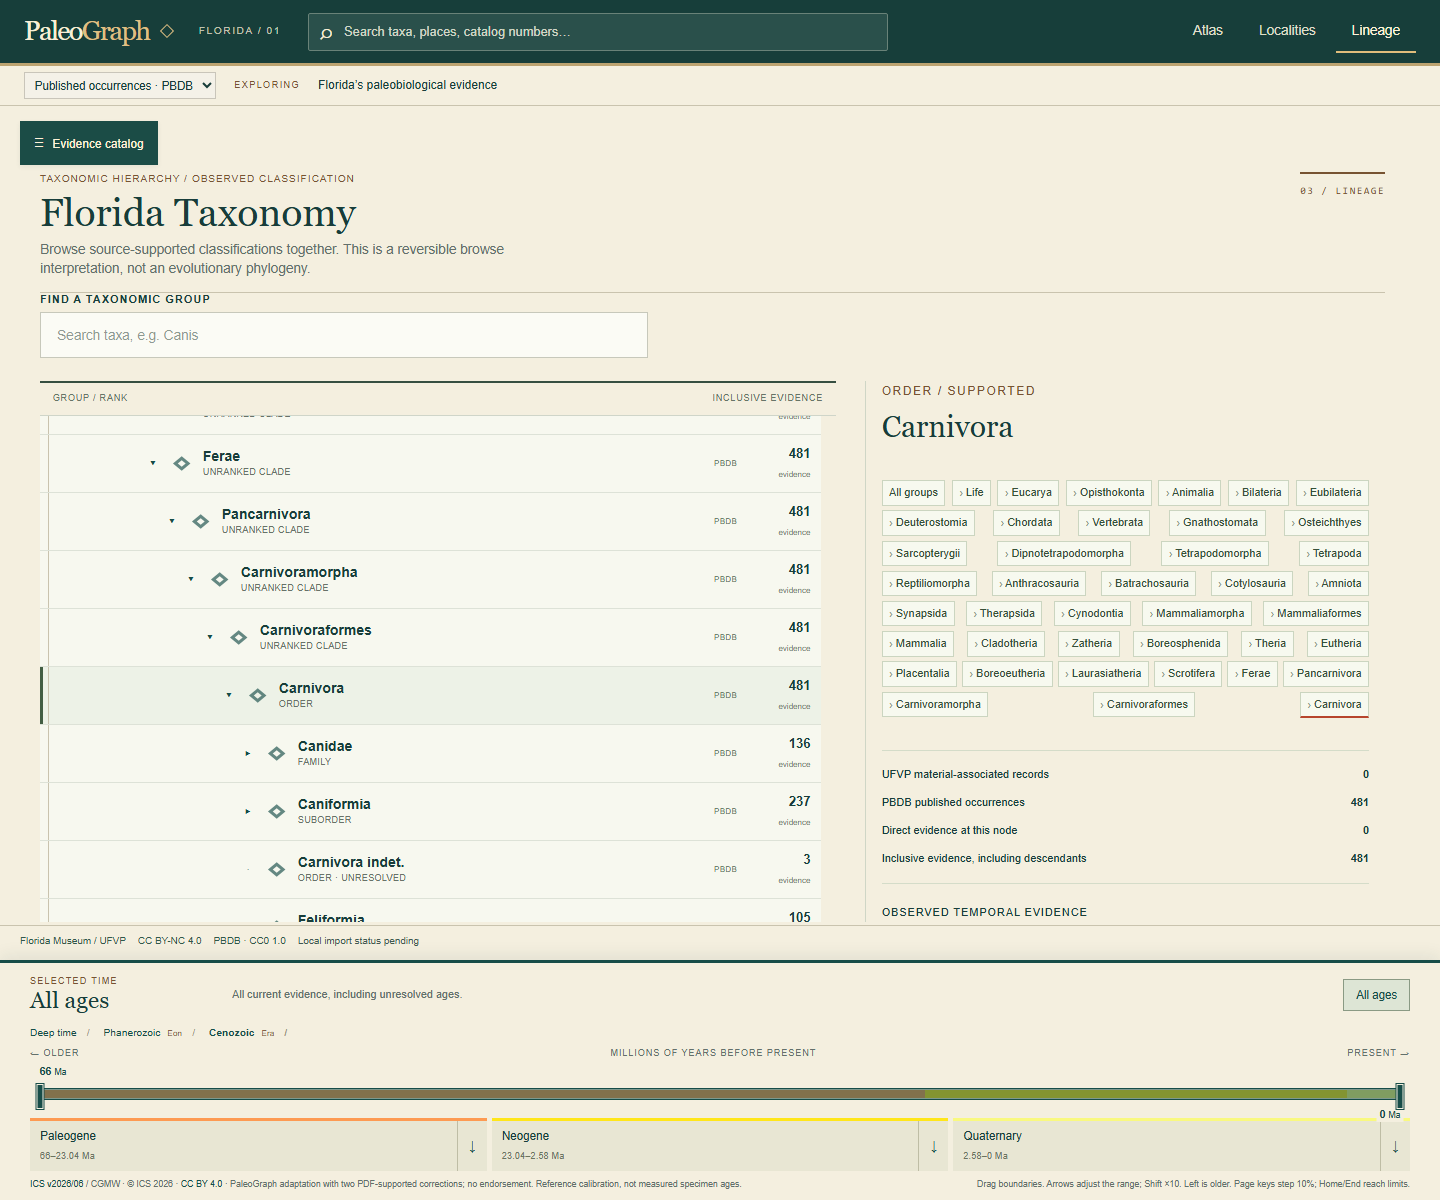
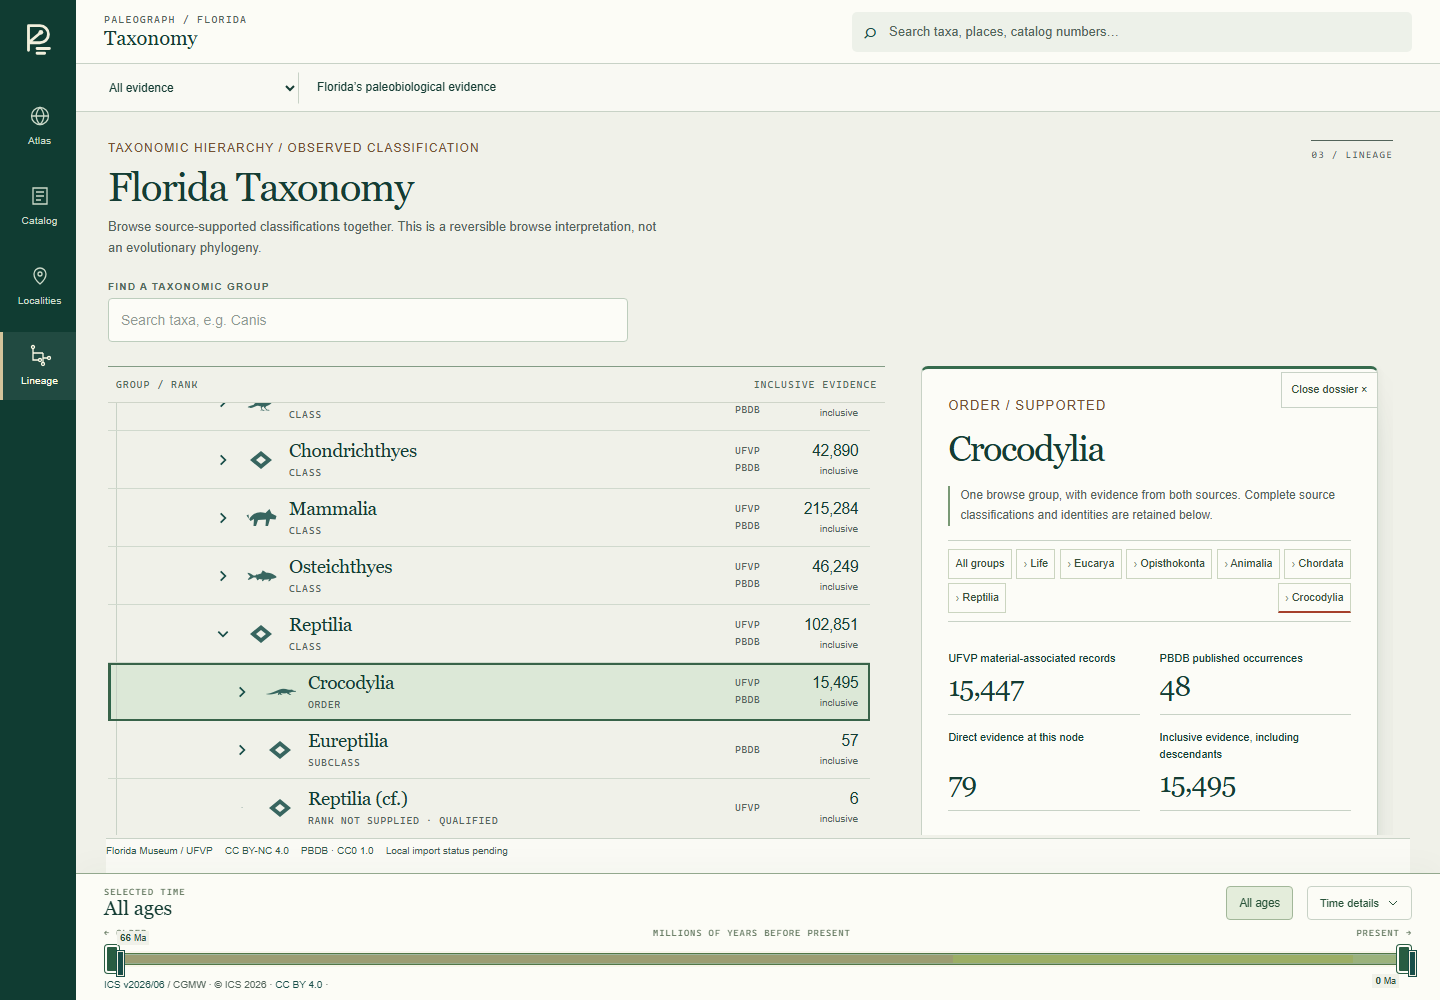
docs: refresh brand and public product screenshots
Align the README with the branching P identity, redesigned workspace, expanded decorative archetypes, and reversible unified Lineage. Replace the four older screenshots and add current Home, Records, and phone-width views, with source and cartographic attribution retained.

Validation: GitHub Markdown rendering succeeds; all local links and nine images resolve; desktop and phone previews reviewed. Seven live Chromium captures report no page errors, failed requests, or horizontal overflow. Product code and scientific data are unchanged.

diff --git a/README.md b/README.md
@@ -1,18 +1,44 @@
-# PaleoGraph
+<h1 align="center"><img src="docs/brand/readme-header.svg" width="700" alt="PaleoGraph"></h1>
 
-A provenance-aware paleobiology atlas integrating museum material and published occurrence evidence while preserving source identity, uncertainty, taxonomy, temporal interpretation, and the evidence behind each record.
+<p align="center"><strong>Life, recorded.</strong><br>Explore fossil evidence through place, deep time, and the source record.</p>
 
-![PaleoGraph Atlas with evidence catalog and geological time selection](docs/screenshots/atlas.png)
+<p align="center"><a href="https://github.com/AaronGibson2/PaleoGraph/actions/workflows/ci.yml"><img src="https://github.com/AaronGibson2/PaleoGraph/actions/workflows/ci.yml/badge.svg?branch=main" alt="CI status"></a> · <a href="docs/scientific-semantics.md">Scientific semantics</a> · <a href="#running-locally">Run locally</a> · <a href="LICENSE">AGPL-3.0-only</a></p>
+
+PaleoGraph is a provenance-aware paleobiology workspace for Florida's fossil record. Explore museum material and published occurrence evidence while preserving source identity, uncertainty, classification, temporal interpretation, and the evidence behind each record.
+
+![PaleoGraph Home with the branching P logo, natural-history composition, and Atlas, Catalog, and Lineage entry points](docs/screenshots/home.png)
 
 ## What it does
 
-Explore Florida's fossil evidence through an interactive Atlas, locality dossiers, a unified Florida taxonomy explorer, geological time selection, and a shared evidence catalog. Search taxa, places, and catalog numbers; inspect identifications, age evidence, source revisions, and explicit bibliographic relationships.
+Move between an interactive Atlas, a shared evidence Catalog, unified Florida Taxonomy in Lineage, and layered source dossiers. Search taxa, places, and catalog numbers; inspect identifications, age evidence, source revisions, and explicit bibliographic relationships.
+
+- **Atlas:** explore represented museum evidence on present-day geography, with locality context and a compact geological time selector.
+- **Catalog:** switch between dense List and visual Records presentations, with source-specific labels and decorative animal forms.
+- **Lineage:** expand a shared classification tree, inspect combined and source-specific counts, and follow complete retained source paths. Hover and keyboard-focus previews offer context before opening a dossier.
+- **Dossiers:** follow section navigation through classification, time, material, provenance, and references without losing the exploration context.
+
+The branching **P** and strata mark, evergreen navigation rail, editorial typography, and 27 decorative animal archetypes form the current [visual identity](docs/visual-identity.md). Responsive layouts and reduced-motion support carry the same workspace across screen sizes. Animal forms are orientation aids, not specimen photographs or species reconstructions.
 
 The validated local scientific dataset contains **462,280 UFVP records**, **18,915 Florida PBDB occurrences**, and **1,118 PBDB collections**. Museum catalog assertions can describe multiple pieces. Published occurrences remain distinct from physical specimens; PBDB ingestion creates **zero canonical Specimens**.
 
-| Search across sources | Florida taxonomy explorer |
+![Current PaleoGraph Atlas with the evergreen navigation rail, museum catalog, attributed basemap, and compact geological timeline](docs/screenshots/atlas.png)
+
+| Catalog · Records presentation | Lineage · unified source evidence |
 | --- | --- |
-| ![Mixed-source search](docs/screenshots/search.png) | ![Expandable Florida classification tree and source-specific evidence](docs/screenshots/lineage.png) |
+| ![Visual Catalog records with source labels and decorative animal forms](docs/screenshots/catalog.png) | ![Shared Crocodylia browse node with crocodilian imagery, UFVP and PBDB counts, and retained source classifications](docs/screenshots/lineage.png) |
+
+| Search across sources | Source dossiers and references |
+| --- | --- |
+| ![Current search presentation with separately typed museum and published evidence](docs/screenshots/search.png) | ![Published occurrence dossier with source-linked bibliographic evidence and section navigation](docs/screenshots/source-references.png) |
+
+<details>
+<summary>Phone-width Catalog</summary>
+
+<img src="docs/screenshots/mobile.png" width="390" alt="PaleoGraph evidence Catalog at phone width, with the current brand mark and accessible navigation controls">
+
+</details>
+
+Screenshots show the current local application with retained Florida evidence; they are not mockups. The complete dataset is not bundled with a fresh clone. Source and map attribution remain visible; [rights and screenshot scope](docs/data-sources.md#interface-artwork-screenshots-and-maps) apply.
 
 ## Engineering highlights
 
@@ -40,7 +66,9 @@ Design C separates cold raw archives from queryable normalized evidence while re
 
 Occurrence is distinct from specimen; taxonomy is distinct from phylogeny. Source assertions remain separate from PaleoGraph interpretation. Source numeric ages remain separate from derived reference envelopes; uncertainty and qualifiers remain visible. Reconciliation candidates do not establish deterministic identity.
 
-The **Lineage** navigation opens **Florida Taxonomy**: an expandable classification tree over compatible UFVP/PBDB evidence, with search, stable focused links, source filters and separate material/occurrence counts. Temporal evidence is secondary node detail. [Explorer semantics and API](docs/taxonomy-explorer.md) describes grouping and unresolved paths. It does not establish evolutionary origin, divergence, extinction timing, or complete geographic range. **PBDB coordinates are withheld from Atlas until datum/CRS semantics are sufficiently verified**; occurrences remain available through nonspatial browsing. See [scientific semantics](docs/scientific-semantics.md).
+The **Lineage** navigation opens **Florida Taxonomy**: compatible UFVP/PBDB classifications share reversible browse nodes despite extra intermediate source levels. Source identities and complete supplied paths remain inspectable; meaningful conflicts and partial/unresolved branches remain explicit. Search favors supported shared groups, source filters keep stable node identities, and redirects preserve merged browse URLs. Combined counts retain separate museum-material and published-occurrence breakdowns.
+
+Temporal evidence is secondary node detail. [Explorer semantics and API](docs/taxonomy-explorer.md) describes grouping and unresolved paths. The tree does not establish evolutionary origin, divergence, extinction timing, or complete geographic range. **PBDB coordinates are withheld from Atlas until datum/CRS semantics are sufficiently verified**; occurrences remain available through nonspatial browsing. See [scientific semantics](docs/scientific-semantics.md).
 
 ## Performance
 
@@ -126,4 +154,6 @@ Coverage reflects retained snapshots and their omissions. Missing evidence does 
 
 ## Current status
 
-Florida multi-source browsing is implemented and locally validated. Global PBDB ingestion architecture has been validated with a retained scale fixture containing 1,507,657 typed source records, 262,144 occurrences, and 29,982,936 proof edges, including replay, recovery, and coupled database/archive restore. **The actual global PBDB import has not been performed.** This is a development application; no production deployment is claimed.
+Florida multi-source browsing, the current visual identity, expanded animal coverage, and unified Lineage are implemented and validated. [CI](https://github.com/AaronGibson2/PaleoGraph/actions/workflows/ci.yml) runs frontend, full API/database, migration, and fixture-backed Chromium checks; retained-Florida browser checks run separately against the local scientific snapshot.
+
+Global PBDB ingestion architecture has been validated with a retained scale fixture containing 1,507,657 typed source records, 262,144 occurrences, and 29,982,936 proof edges, including replay, recovery, and coupled database/archive restore. **The actual global PBDB import has not been performed.** This is a development application; no production deployment is claimed.

diff --git a/docs/data-sources.md b/docs/data-sources.md
@@ -28,8 +28,8 @@ The reference is pinned to **ICS 2026/06**: 178 chart units and eight separately
 
 ## Interface artwork, screenshots and maps
 
-The fourteen shipped animal-archetype PNGs were generated with GPT Image and curated as decorative interface artwork, not scientific specimen images or third-party museum assets. Original fallback glyphs contain their own CC0 dedication. Source membership rules select icons; labels do not establish identity. There is no runtime AI service.
+The 27 shipped animal archetypes comprise fourteen PNGs generated with GPT Image and thirteen original filled SVG silhouettes. They are curated decorative interface artwork, not scientific specimen images, exact species reconstructions, or third-party museum assets. The branching P and geological strata logo is original vector geometry. [Visual identity](visual-identity.md) describes the reusable assets and their scope. Original fallback glyphs contain their own CC0 dedication. Source membership rules select icons; labels do not establish identity. There is no runtime AI service.
 
-The four screenshots show actual local application views with attributed UFVP/PBDB evidence, ICS reference presentation and cartographic layers. Embedded third-party content retains those rights; the software license does not grant unrestricted reuse of all pixels. Attribution remains visible. Screenshots are not downloadable source datasets.
+The seven screenshots in `docs/screenshots/` show actual local application views: Home, Atlas, Catalog Records, unified Lineage, search, source references, and a phone-width Catalog. They were captured from the current interface with retained Florida evidence on 2026-10-26, using read-only application/API routes and live attributed cartographic layers. The Home illustration and record icons are decorative forms. Embedded UFVP/PBDB content, ICS reference presentation, and map layers retain their respective rights; the software license does not grant unrestricted reuse of all pixels. Attribution remains visible. Screenshots are not downloadable source datasets.
 
 Maps use [OpenFreeMap](https://openfreemap.org/), OpenMapTiles and OpenStreetMap contributors. Preserve displayed attribution and applicable [OpenStreetMap rights](https://www.openstreetmap.org/copyright) and provider terms. No tile/font archive is committed. Cartographic infrastructure is separate from scientific evidence.
